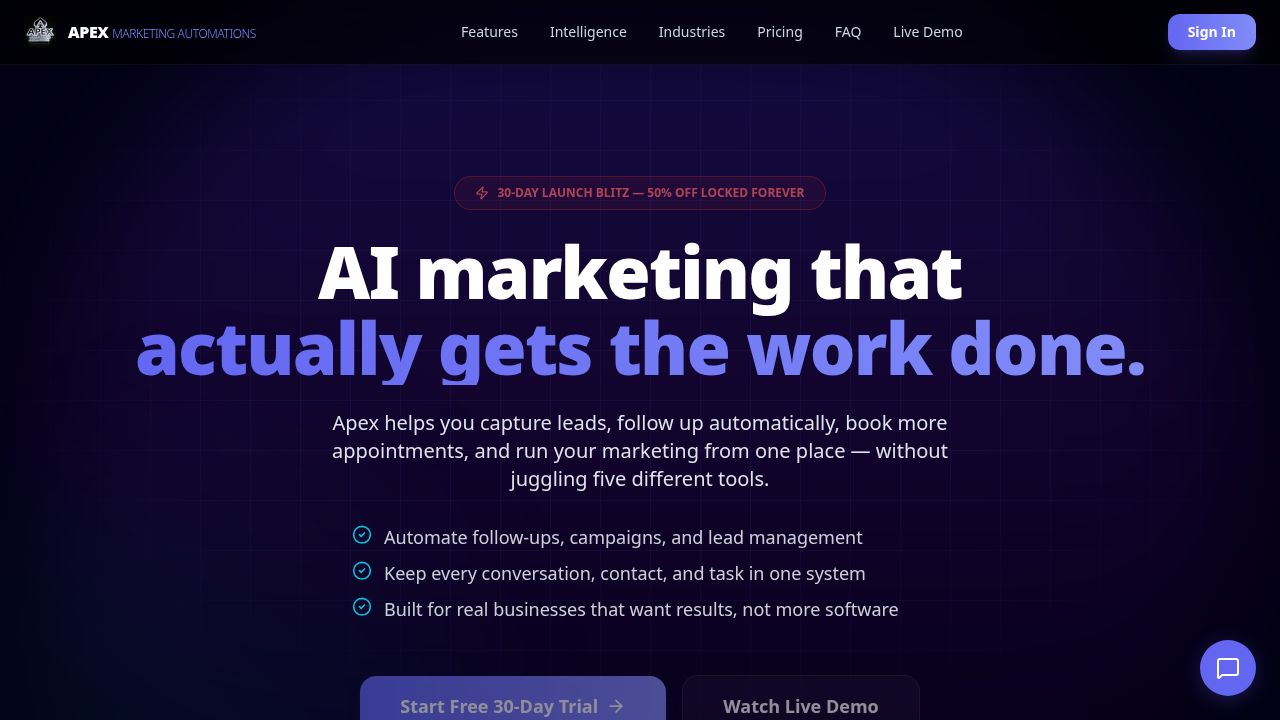
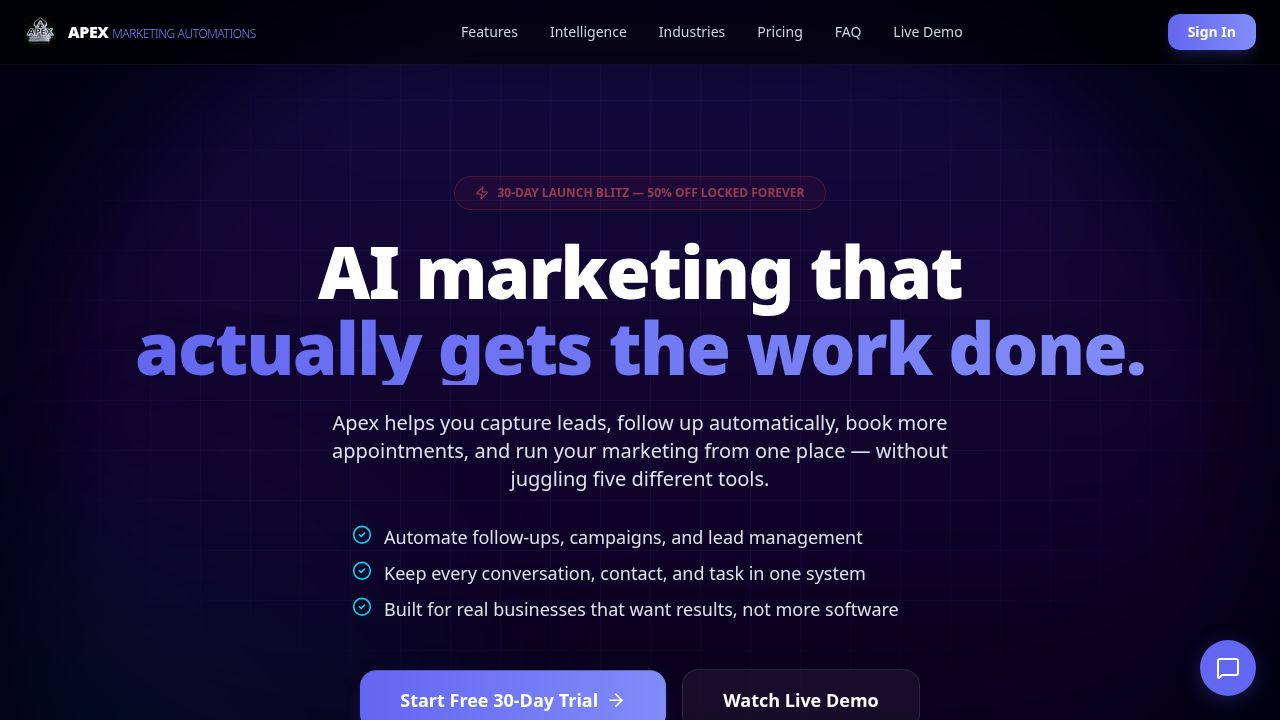
Show face reference instantly without burning muapi credits
Task: Operators on the LaylaStudio page were burning muapi credits the
moment they dropped a face photo, because the upload handler called the
muapi `upload_file` endpoint up front just to display the thumbnail. The
goal was to defer that upload until a generation actually needs the face
swap, while keeping the local preview, status dot, and auto-apply badge
working immediately.

Changes (client/src/pages/layla-studio.tsx):
- Reshaped the in-memory `FaceRef` to `{ file: File; preview: string }`
  so it carries the local File and an object-URL preview instead of a
  remote muapi URL.
- `TabLayla.uploadFace` now just stores the file + preview in state and
  no longer hits the network. Removed the `uploading` state and the
  "Uploading..." label since there is nothing to wait for.
- Added a module-level `ensureFaceUploaded` helper that lazily uploads
  the stored File on first use via the existing `/api/studio/muapi/
  upload_file` proxy and caches the resulting Promise in a WeakMap keyed
  by File. Subsequent generations in the same session reuse the cached
  remote URL; replacing the face produces a fresh File and a fresh
  cache entry. Failed uploads are evicted so a retry can re-attempt.
- Updated both face-swap call sites (`TabImages.generate` and
  `TabVideo.generate`) to await `ensureFaceUploaded(laylaFace)` right
  before posting to `ai-image-face-swap` / `ai-video-face-swap`. Errors
  bubble through the existing try/catch into the same red error box,
[…]

Changed region(s): [[0.2812, 0.9167, 0.5312, 1.0], [0.5625, 0.9472, 0.6875, 1.0]]

diff --git a/client/src/pages/layla-studio.tsx b/client/src/pages/layla-studio.tsx
@@ -195,7 +195,21 @@ type Asset = {
   model?: string;
 };
 
-type FaceRef = { url: string; preview: string } | null;
+type FaceRef = { file: File; preview: string } | null;
+
+const faceUploadCache = new WeakMap<File, Promise<string>>();
+
+async function ensureFaceUploaded(face: { file: File }): Promise<string> {
+  let pending = faceUploadCache.get(face.file);
+  if (!pending) {
+    pending = uploadFile(face.file).catch(err => {
+      faceUploadCache.delete(face.file);
+      throw err;
+    });
+    faceUploadCache.set(face.file, pending);
+  }
+  return pending;
+}
 
 type JsonValue = string | number | boolean | null | JsonValue[] | { [key: string]: JsonValue };
 type JsonObject = { [key: string]: JsonValue };
@@ -424,7 +438,6 @@ function TabLayla({ laylaFace, setLaylaFace, laylaPrompt, setLaylaPrompt }: { la
   const [scene, setScene] = useState("");
   const [extras, setExtras] = useState("");
   const [building, setBuilding] = useState(false);
-  const [uploading, setUploading] = useState(false);
 
   async function buildPrompt() {
     setBuilding(true);
@@ -433,13 +446,8 @@ function TabLayla({ laylaFace, setLaylaFace, laylaPrompt, setLaylaPrompt }: { la
     setBuilding(false);
   }
 
-  async function uploadFace(file: File) {
-    setUploading(true);
-    try {
-      const url = await uploadFile(file);
-      setLaylaFace({ url, preview: URL.createObjectURL(file) });
-    } catch (e) { console.error(e); }
-    setUploading(false);
+  function uploadFace(file: File) {
+    setLaylaFace({ file, preview: URL.createObjectURL(file) });
   }
 
   return (
@@ -450,7 +458,7 @@ function TabLayla({ laylaFace, setLaylaFace, laylaPrompt, setLaylaPrompt }: { la
           <div style={{ display: "flex", alignItems: "center", gap: 14 }}>
             {laylaFace ? <img className="face-thumb" src={laylaFace.preview} alt="Layla" /> : <div className="face-placeholder">✦</div>}
             <div style={{ flex: 1 }}>
-              <UploadZone onFile={uploadFace} accept="image/*" label={uploading ? "Uploading..." : laylaFace ? "Replace face reference" : "Upload Layla's best front-facing photo"} />
+              <UploadZone onFile={uploadFace} accept="image/*" label={laylaFace ? "Replace face reference" : "Upload Layla's best front-facing photo"} />
             </div>
           </div>
           {laylaFace && <div className="success-box" style={{ marginTop: 12 }}>✓ Face locked — auto-applies to all generations</div>}
@@ -532,10 +540,11 @@ function TabImages({ laylaFace, laylaPrompt, addToLibrary }: { laylaFace: FaceRe
       let imageUrl = extractUrl(result);
       const modelLabel = IMAGE_MODELS.find(m => m.id === model)?.label || model;
 
-      if (laylaFace?.url && imageUrl) {
+      if (laylaFace && imageUrl) {
         setStatus("Locking face...");
         setProgress(65);
-        const swap = await muapiPost("ai-image-face-swap", { target_image: imageUrl, source_image: laylaFace.url });
+        const sourceImage = await ensureFaceUploaded(laylaFace);
+        const swap = await muapiPost("ai-image-face-swap", { target_image: imageUrl, source_image: sourceImage });
         const swapResult = await pollResult(swap.id, p => setProgress(65 + p * 0.35));
         imageUrl = extractUrl(swapResult) || imageUrl;
       }
@@ -626,9 +635,10 @@ function TabVideo({ laylaFace, laylaPrompt, library, addToLibrary }: { laylaFace
         videoUrl = extractUrl(result);
       }
 
-      if (laylaFace?.url && videoUrl) {
+      if (laylaFace && videoUrl) {
         setStatus("Locking face..."); setProgress(78);
-        const swap = await muapiPost("ai-video-face-swap", { target_video: videoUrl, source_image: laylaFace.url });
+        const sourceImage = await ensureFaceUploaded(laylaFace);
+        const swap = await muapiPost("ai-video-face-swap", { target_video: videoUrl, source_image: sourceImage });
         const swapResult = await pollResult(swap.id, p => setProgress(78 + p * 0.22));
         videoUrl = extractUrl(swapResult) || videoUrl;
       }
@@ -694,6 +704,12 @@ function TabVideo({ laylaFace, laylaPrompt, library, addToLibrary }: { laylaFace
             </select>
           </div>
         </div>
+        {laylaFace && (
+          <div style={{ display: "flex", alignItems: "center", gap: 8, marginBottom: 10 }}>
+            <img src={laylaFace.preview} style={{ width: 22, height: 22, borderRadius: "50%", border: "1px solid var(--gold)", objectFit: "cover" }} />
+            <span style={{ color: "var(--gold)", fontSize: 10 }}>Face reference will auto-apply</span>
+          </div>
+        )}
         <button className="btn btn-gold btn-full" onClick={generate} disabled={generating || !prompt} data-testid="button-generate-video">{generating ? "Generating..." : "✦ Generate Video"}</button>
         {generating && <GeneratingStatus status={status} progress={progress} />}
         {error && <div className="error-box" style={{ marginTop: 10 }}>{error}</div>}